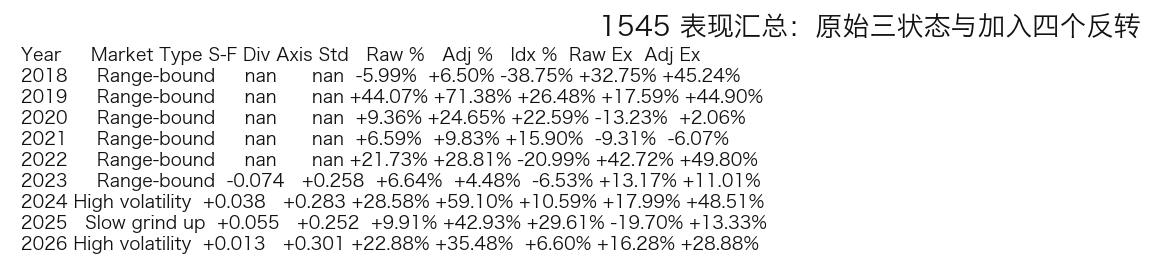
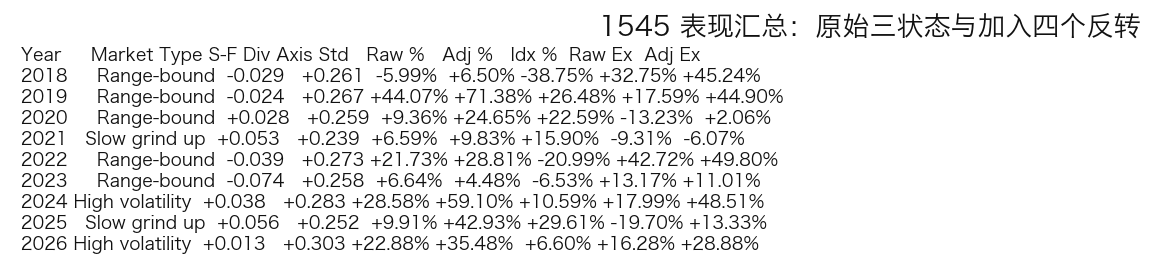
完善年度机制指标说明与引擎诊断结论

diff --git a/20260825_1248_冻结中证500输出包/src/reproduce_remote_o2o.py b/20260825_1248_冻结中证500输出包/src/reproduce_remote_o2o.py
@@ -1109,11 +1109,24 @@ def _plot_internal_diagnostics(panel: pd.DataFrame | None, frame: pd.DataFrame, 
     plt.close(fig)
 
     # Annual engine summary table.
+    #
+    # The performance rows are grouped by execution year.  The earlier
+    # implementation accidentally used ``recent`` (the 2023-focused
+    # diagnostic slice) for the two explanatory engine metrics, which left
+    # 2018--2022 blank even though their returns were included.  Use the full
+    # diagnostic panel and assign formation-day observations to the year of
+    # their next execution date.  This keeps the table's time basis aligned
+    # with the O2O performance columns and makes the explanatory metrics
+    # available for every year.
     rows: list[dict[str, Any]] = []
     for year, group in frame.loc[frame["O2O可评价"]].groupby(frame.loc[frame["O2O可评价"], "实际执行日"].dt.year):
-        eng = recent.loc[recent["date"].dt.year.eq(year)]
-        axis_std = float(col("rule_axis").loc[eng.index].std()) if not eng.empty else np.nan
-        sf_mean = float((col("slow_engine") - col("fast_engine")).loc[eng.index].mean()) if not eng.empty else np.nan
+        effective_year = pd.to_datetime(full_diag["effective_date"], errors="coerce").dt.year
+        eng = full_diag.loc[effective_year.eq(year)].copy()
+        axis = pd.to_numeric(eng.get("rule_axis"), errors="coerce")
+        slow = pd.to_numeric(eng.get("slow_engine"), errors="coerce")
+        fast = pd.to_numeric(eng.get("fast_engine"), errors="coerce")
+        axis_std = float(axis.std()) if axis.notna().any() else np.nan
+        sf_mean = float((slow - fast).mean()) if (slow - fast).notna().any() else np.nan
         if np.isfinite(axis_std) and axis_std > 0.28:
             market_type = "High volatility"
         elif np.isfinite(sf_mean) and sf_mean > 0.03:

diff --git a/03_汇报版本/20260825_500三状态最终冻结/500三状态最终冻结_最终汇报展示版_20260825.md b/03_汇报版本/20260825_500三状态最终冻结/500三状态最终冻结_最终汇报展示版_20260825.md
@@ -86,19 +86,25 @@
 
 ![调整相对原始的超额收益](images/14_调整相对原始_超额收益.png)
 
-| 年份 | 市场类型 | 慢快线差 | 方向轴标准差 | 原始三状态收益 | 加入四反转收益 | 指数收益 | 原始超额 | 调整后超额 |
-|---:|---|---:|---:|---:|---:|---:|---:|---:|
-| 2018 | 区间震荡 | — | — | -5.994% | +6.498% | -38.746% | +32.751% | +45.244% |
-| 2019 | 区间震荡 | — | — | +44.067% | +71.376% | +26.477% | +17.590% | +44.899% |
-| 2020 | 区间震荡 | — | — | +9.357% | +24.654% | +22.591% | -13.233% | +2.064% |
-| 2021 | 区间震荡 | — | — | +6.590% | +9.827% | +15.897% | -9.308% | -6.070% |
-| 2022 | 区间震荡 | — | — | +21.730% | +28.805% | -20.990% | +42.720% | +49.795% |
-| 2023 | 区间震荡 | -0.074 | 0.258 | +6.642% | +4.483% | -6.532% | +13.174% | +11.015% |
-| 2024 | 高波动 | +0.038 | 0.283 | +28.581% | +59.100% | +10.594% | +17.987% | +48.506% |
-| 2025 | 慢速上行 | +0.055 | 0.252 | +9.906% | +42.934% | +29.607% | -19.701% | +13.327% |
-| 2026 | 高波动 | +0.013 | 0.301 | +22.884% | +35.478% | +6.603% | +16.281% | +28.875% |
+| 年份 | 慢快线差（日均） | 方向轴标准差（年内） | 原始三状态收益 | 加入四反转收益 | 指数收益 | 原始超额 | 调整后超额 |
+|---:|---:|---:|---:|---:|---:|---:|---:|
+| 2018 | -0.029 | 0.261 | -5.994% | +6.498% | -38.746% | +32.751% | +45.244% |
+| 2019 | -0.024 | 0.267 | +44.067% | +71.376% | +26.477% | +17.590% | +44.899% |
+| 2020 | +0.028 | 0.259 | +9.357% | +24.654% | +22.591% | -13.233% | +2.064% |
+| 2021 | +0.053 | 0.239 | +6.590% | +9.827% | +15.897% | -9.308% | -6.070% |
+| 2022 | -0.039 | 0.273 | +21.730% | +28.805% | -20.990% | +42.720% | +49.795% |
+| 2023 | -0.074 | 0.259 | +6.642% | +4.483% | -6.532% | +13.174% | +11.015% |
+| 2024 | +0.038 | 0.283 | +28.581% | +59.100% | +10.594% | +17.987% | +48.506% |
+| 2025 | +0.056 | 0.252 | +9.906% | +42.934% | +29.607% | -19.701% | +13.327% |
+| 2026 | +0.013 | 0.303 | +22.884% | +35.478% | +6.603% | +16.281% | +28.875% |
 
-该表直接对应原 17 图；收益均为执行日 O2O 加算收益，市场类型和慢快线指标只用于解释，不参与冻结参数更新。
+该表提取自原 17 图的年度收益和机制指标，删去了只用于辅助描述的市场类型标签；2018—2026 每一年都参与统计。之前 2018—2022 年显示“—”并不是没有计算收益，而是旧版只把 2023 年起的诊断切片接入了两列解释指标；本版已改为完整周期计算。
+
+表内计算口径如下：
+
+- **慢快线差（日均）**：先在形成日计算 `slow_engine - fast_engine`，再按其对应的下一实际执行日归入年份，最后对该年所有执行日做算术平均。正值表示慢引擎平均高于快引擎，负值表示快引擎平均高于慢引擎。它不是 60 日滚动均值；机制分析中的 `slow_fast_mean_60` 是另一个“先做 60 日滚动平均、再按年平均”的指标。
+- **方向轴标准差（年内）**：将该年每个执行日对应形成日的 `rule_axis` 数值，按年计算样本标准差（`std(ddof=1)`）；数值越大表示方向轴在该年波动越分散，不等于收益波动率。
+- **收益列**：按执行日 O2O 日收益逐日直接相加，不复利；原始超额 = 原始三状态收益 − 指数收益，调整后超额 = 加入四反转收益 − 指数收益。
 
 ![原始与调整的状态暴露对比](images/18_1545_状态对比_原始与调整_四反转.png)
 
@@ -110,7 +116,9 @@
 
 ![1545 引擎内部状态诊断（2018 年至最新）](images/15_1545_引擎内部状态诊断_2018至最新.png)
 
-这张引擎诊断图从上到下依次看中证500收盘价、rule_axis/slow_engine/fast_engine 三条相对得分、四个 cv 维度，以及基础/调整后三状态背景。横轴是日期；各层纵轴分别是价格、相对得分、维度值和 -1/0/+1 状态。rule_axis 是方向轴，slow_engine 与 fast_engine 是冻结引擎的慢/快相对得分；四个 cv 维度分别代表趋势、量价、位置和日内信息。读图时先观察四个维度是否在相近时期共同变化，再看方向轴和引擎是否满足条件，最后看状态是否经过确认后切换。
+这张引擎诊断图从上到下依次看中证500收盘价、`rule_axis / slow_engine / fast_engine` 三条相对得分、四个 `cv` 维度，以及基础/调整后三状态背景。横轴是形成日日期；各层纵轴分别是价格、相对得分、维度值和 -1/0/+1 状态。60 日收益按 `收盘价_t / 收盘价_{t-60} - 1` 计算，60 日波动按 60 日收盘收益标准差乘 `sqrt(252)` 计算；`rule_axis` 是正式方向轴，`slow_engine` 与 `fast_engine` 是冻结引擎的慢/快相对得分；四个 `cv` 维度分别代表趋势、量价、位置和日内信息。底部颜色不是当天收盘后立即执行的状态，而是该形成日计算结果对应的下一实际执行日状态。
+
+**图示分析与结论：** 读图时先观察四个维度是否在相近时期共同变化，再看方向轴和慢/快引擎是否同步越过相应区域，最后看状态背景是否在确认规则后切换。2018—2025 年也能看到局部维度快速变化，但不少变化是单一维度或短暂脉冲，基础状态因此保持较长的 0 或经过确认后才切换；2026 年多个维度在较短时间内集中变化，方向轴、慢引擎和快引擎的变化更容易连续传递到底部状态，调整后三状态则在基础 0 区间增加了更快的方向响应。与年度表中 2026 年方向轴年内标准差约 0.303、调整后方向覆盖增加相互印证，当前证据支持“行情变化更集中 + 多视角同步 + 滚动相对比较”共同造成识别更快；同时，图中仍可见确认和状态机对噪声的过滤，因此不能把 2026 的敏感度归因于单独放宽阈值，也不能把这张诊断图当作因果证明。
 
 ### 慢引擎—快引擎背离：2018 年至最新
 
